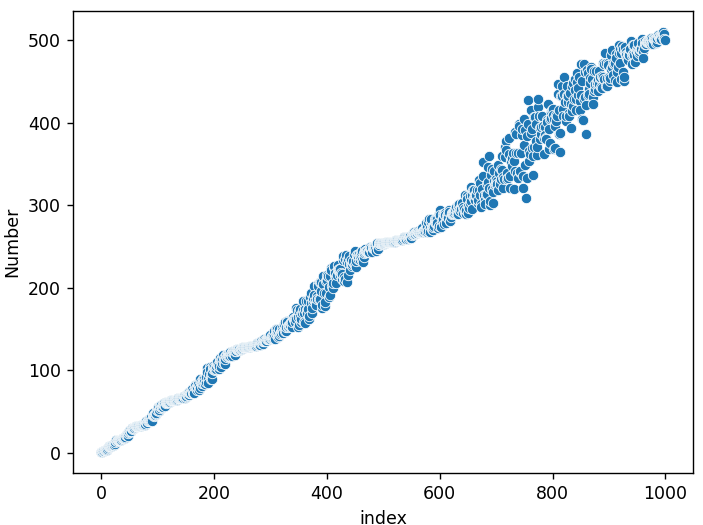
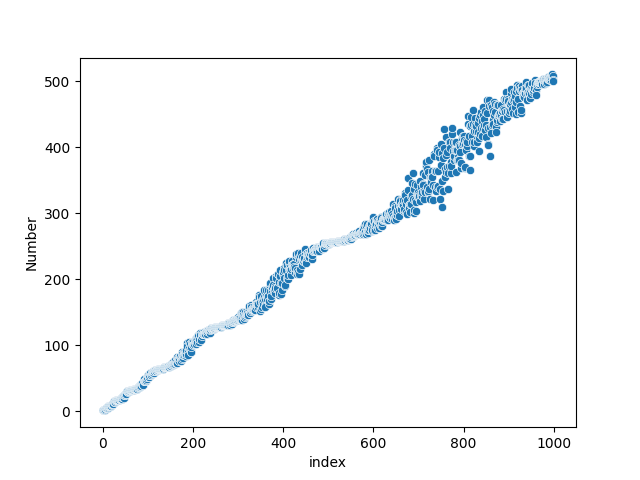
edit README.md

diff --git a/chaotic_cousin_sequence.py b/chaotic_cousin_sequence.py
@@ -16,7 +16,7 @@ def generate_chaotic_cousin(n):
         i += 1
     return a
 
-print(generate_chaotic_cousin(30))
+print(generate_chaotic_cousin(100))
 
 # Basic Scatter Plots
 n = 10
@@ -24,6 +24,7 @@ sequence = generate_chaotic_cousin(n)
 df = pd.DataFrame(sequence, columns=["Number"])
 df['index'] = [i for i in range(n)]
 sns.scatterplot(x="index", y="Number", data=df)
+plt.savefig("images/10.png")
 plt.show()
 
 n = 100
@@ -31,6 +32,7 @@ sequence = generate_chaotic_cousin(n)
 df = pd.DataFrame(sequence, columns=["Number"])
 df['index'] = [i for i in range(n)]
 sns.scatterplot(x="index", y="Number", data=df)
+plt.savefig("images/100.png")
 plt.show()
 
 n = 1000
@@ -38,6 +40,7 @@ sequence = generate_chaotic_cousin(n)
 df = pd.DataFrame(sequence, columns=["Number"])
 df['index'] = [i for i in range(n)]
 sns.scatterplot(x="index", y="Number", data=df)
+plt.savefig("images/1000.png")
 plt.show()
 
 n = 10000
@@ -45,6 +48,7 @@ sequence = generate_chaotic_cousin(n)
 df = pd.DataFrame(sequence, columns=["Number"])
 df['index'] = [i for i in range(n)]
 sns.scatterplot(x="index", y="Number", data=df)
+plt.savefig("images/10000.png")
 plt.show()
 
 n = 100000
@@ -52,4 +56,5 @@ sequence = generate_chaotic_cousin(n)
 df = pd.DataFrame(sequence, columns=["Number"])
 df['index'] = [i for i in range(n)]
 sns.scatterplot(x="index", y="Number", data=df)
+plt.savefig("images/100000.png")
 plt.show()

diff --git a/README.md b/README.md
@@ -1,7 +1,7 @@
 # chaotic-cousin-sequence
 This script generates the [chaotic cousin sequence](https://www.youtube.com/watch?v=j0o-pMIR8uk). 
 
-output: `[1, 1, 1, 2, 2, 2, 3, 4, 4, 4, 4, 5, 6, 7, 8, 8, 8, 8, 8, 8, 9, 10, 10, 10, 11, 13, 15, 15, 14, 15]`
+output: `[1, 1, 1, 2, 2, 2, 3, 4, 4, 4, 4, 5, 6, 7, 8, 8, 8, 8, 8, 8, 9, 10, 10, 10, 11, 13, 15, 15, 14, 15, 16, 16, 16, 16, 16, 16, 16, 17, 18, 18, 18, 18, 18, 19, 21, 23, 21, 20, 24, 25, 26, 28, 27, 26, 30, 30, 29, 30, 30, 30, 31, 32, 32, 32, 32, 32, 32, 32, 32, 32, 33, 34, 34, 34, 34, 34, 34, 34, 35, 37, 38, 37, 36, 39, 38, 41, 38, 41, 43, 39, 39, 46, 48, 45, 46, 46, 46, 47, 48, 52]`
 
 # Plotting with Seaborn
 ## Basic Scatterplots
